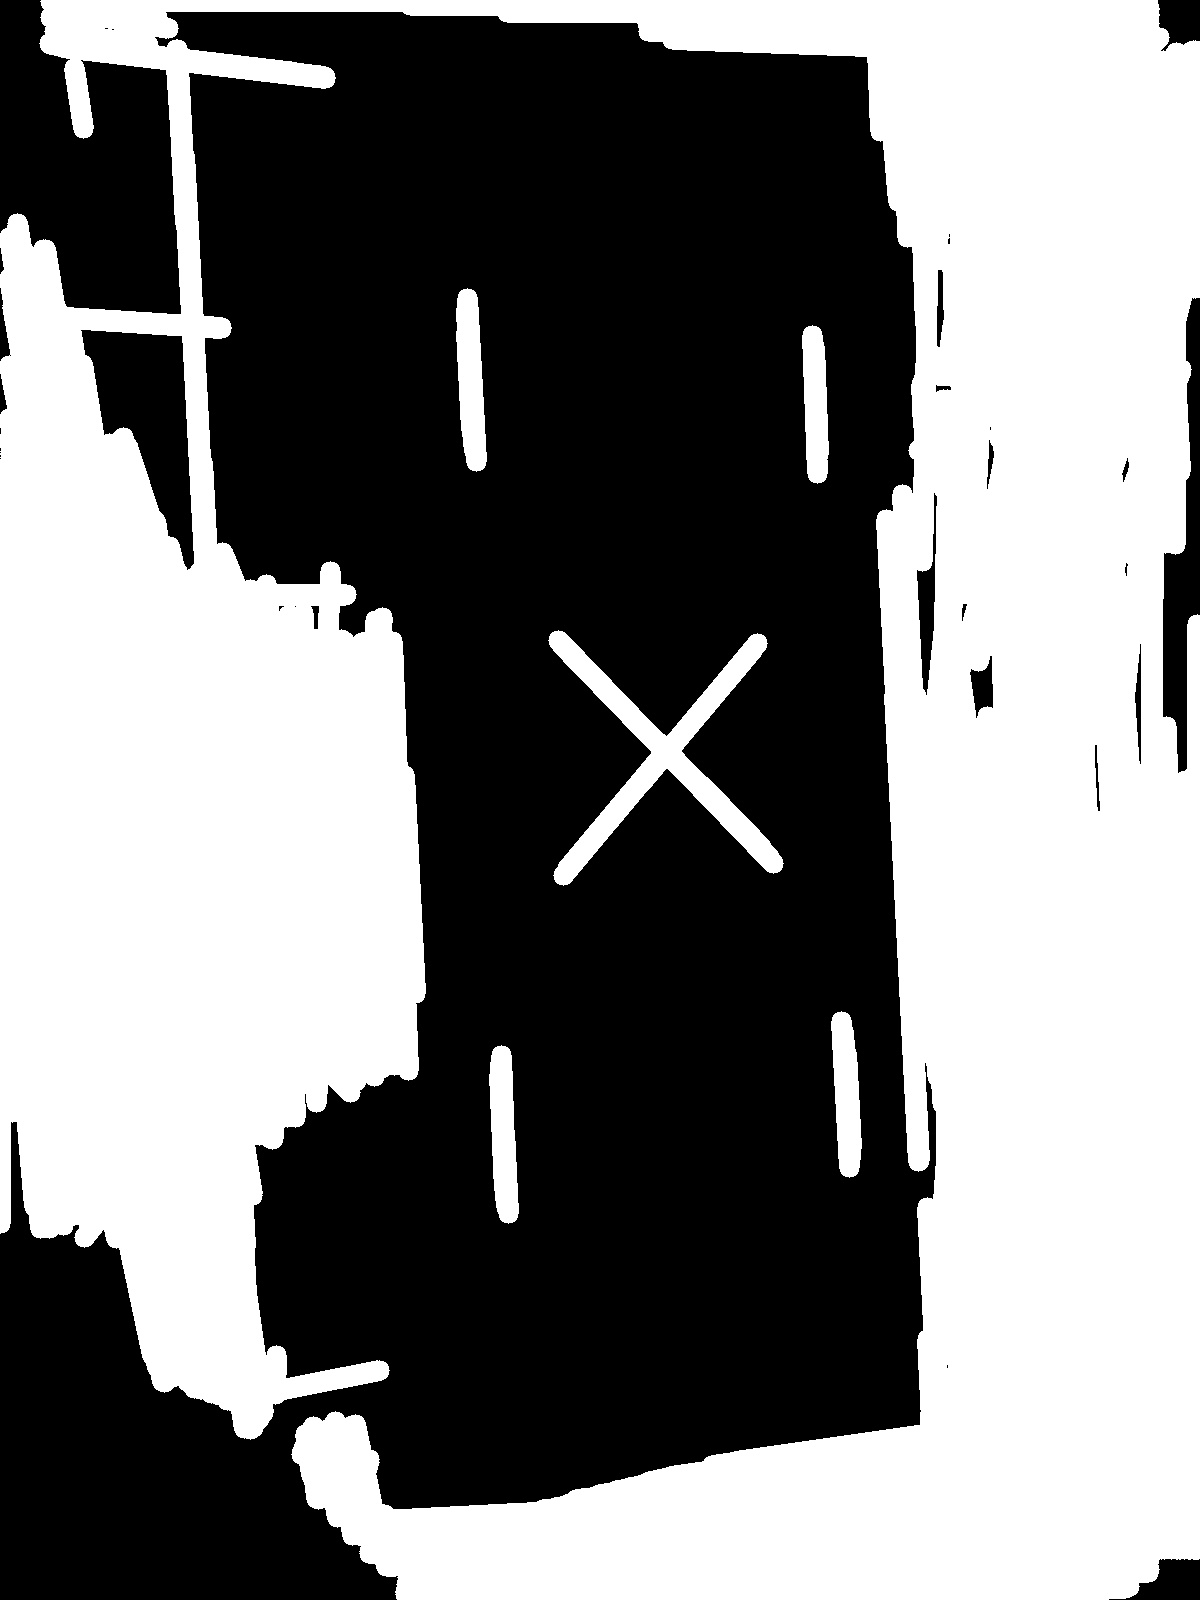
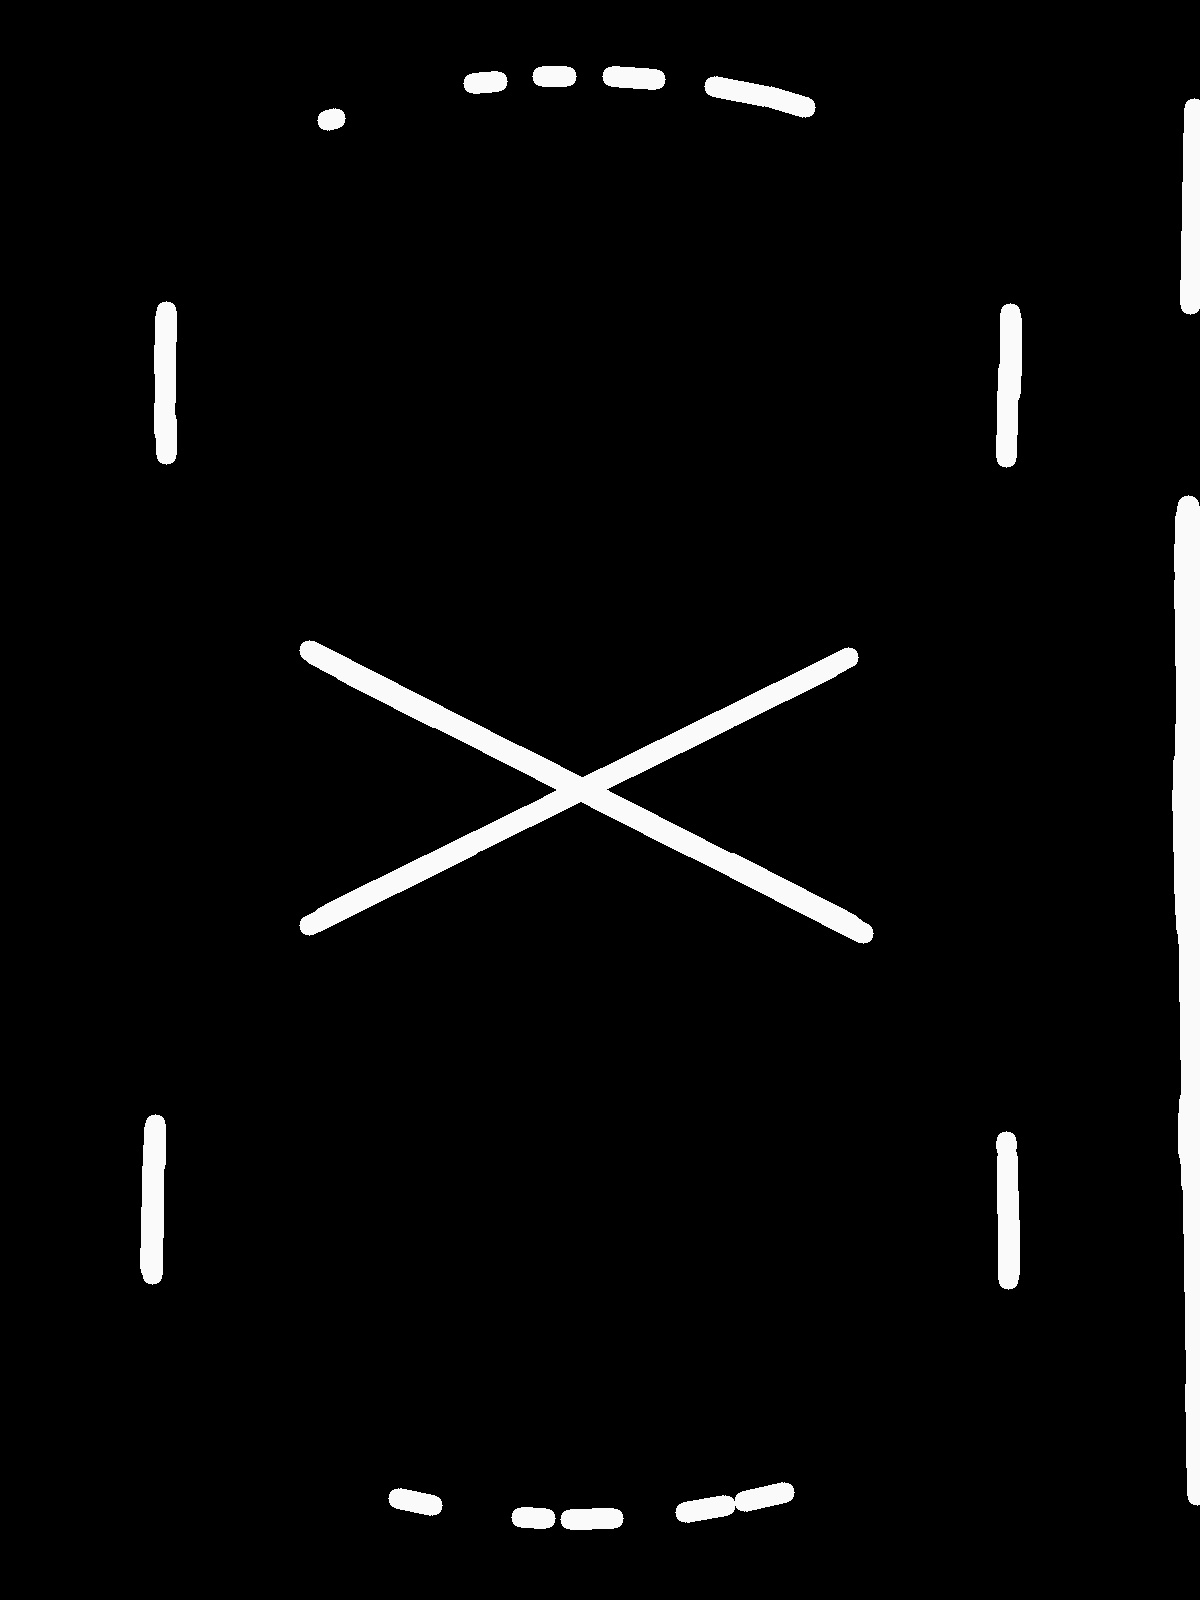
git the paper of the car from prespective of the track

diff --git a/Image Processing/ImageProcessingC++/ScanCar.cpp b/Image Processing/ImageProcessingC++/ScanCar.cpp
@@ -4,7 +4,7 @@
 #include <set>
 
 //Basma :Not sure of Data Type of front_color- back_color check
-bool find_car(int& x_center, int& y_center, int& x_f, int& y_f, int& x_b, int& y_b, Mat image, Scalar front_color, Scalar back_color) {
+bool find_car(int& x_center, int& y_center, int& x_f, int& y_f, int& x_b, int& y_b, Mat& image, Mat& transofmation_matrix, Scalar front_color, Scalar back_color) {
 	/**
 	* This function is used to find car in the picture
 	*
@@ -30,12 +30,19 @@ bool find_car(int& x_center, int& y_center, int& x_f, int& y_f, int& x_b, int& y
 
 	//Temp Till Tomorrow
 	//image = image_input;
-
+	Mat warped_image;
+	int imgWidth = image.cols;
+	int imgHeight = image.rows;
+	warpPerspective(image, warped_image, transofmation_matrix, Size(imgWidth, imgHeight));
+	imshow("warped_car_image", warped_image);
+	//waitKey(0);
 
 	//Convert BGR to RGB
 	Mat image_rgb;
-	cvtColor(image, image_rgb, COLOR_BGR2RGB);
-
+	cvtColor(warped_image, image_rgb, COLOR_BGR2RGB);
+	imshow("warped_car_image_rgb", image_rgb);
+	imwrite("car.jpeg", image_rgb);
+	//waitKey(0);
 	//Detect front of the car
 	//image isn't modified here 😊
 	bool found;
@@ -62,7 +69,7 @@ bool find_car(int& x_center, int& y_center, int& x_f, int& y_f, int& x_b, int& y
 	return true;
 }
 
-void car_on_line(bool& on_line, int& line_index, double x_car_front, double  y_car_front, double  x_car_back, double y_car_back, Mat lines_matrix, int threshold) {
+void car_on_line(bool& on_line, int& line_index, double x_car_front, double  y_car_front, double  x_car_back, double y_car_back, Mat& lines_matrix, int threshold) {
 	/**
 	* This function detrmines whether car is on a straight line or not
 	*
@@ -73,23 +80,47 @@ void car_on_line(bool& on_line, int& line_index, double x_car_front, double  y_c
 	* @lines_matrix : Binary Matrix with 1's = lines
 	* @threshold : min sum to consider Car on line[With the uncommented part to make Region for the Car]
 	*/
-	set<int>s;
-	map<int, int>m, m2;
-	/*for (int i = 0; i < lines_matrix.rows; i++) {
-		for (int j = 0; j < lines_matrix.cols; j++) {
-			s.insert((int)lines_matrix.at<char>(i, j));
-			m2[(int)lines_matrix.at<char>(i, j)]++;
-		}
-	}*/
-	//for (auto m : s)cout << m << " ";
-
 	int size_i = lines_matrix.rows;
 	int size_j = lines_matrix.cols;
 	int x_car = (x_car_front + x_car_back) / 2;
 	int y_car = (y_car_front + y_car_back) / 2;
-	int windo_size = calculateDistance(x_car_front , y_car_front , x_car_back, y_car_back)*1.5;
+	int windo_size = calculateDistance(x_car_front, y_car_front, x_car_back, y_car_back) * 2;
 	int count = 0;
 	on_line = false;
+
+	/*cv::line(lines_matrix, Point(x_car, y_car), Point(0, 0), Scalar(255, 255, 255), 10);
+	imshow("lines_matrix", lines_matrix);
+	waitKey(0);*/
+
+	set<int>s;
+	map<int, int>m, m2;
+	/*for (int i = 0; i < lines_matrix.rows; i++) {
+		for (int j = 0; j < lines_matrix.cols; j++) {
+			s.insert((int)lines_matrix.at<uchar>(i, j));
+			m2[(int)lines_matrix.at<char>(i, j)]++;
+		}
+	}*/
+	//for (int i = y_car-50; i < y_car+50; i++) {
+	//	for (int j = x_car-50; j < x_car+50; j++) {
+	//		s.insert((int)lines_matrix.at<uchar>(i, j));
+	//		m2[(int)lines_matrix.at<uchar>(i, j)]++;
+	//		//cv::line(lines_matrix, Point(i, j), Point(0, 0), Scalar(255, 255, 255), 10);
+	//	}
+	//}
+	/*imshow("lines_matrix", lines_matrix);
+	waitKey(0);*/
+	/*for (int i = x_car - 50; i  < x_car + 50; i++) {
+		for (int j = y_car - 50; j < y_car + 50; j++) {
+			s.insert((int)lines_matrix.at<uchar>(i, j));
+			m2[(int)lines_matrix.at<uchar>(i, j)]++;
+			cv::line(lines_matrix, Point(i, j), Point(0, 0), Scalar(255, 255, 255), 2);
+
+		}
+	}
+	imshow("lines_matrix", lines_matrix);*/
+	//waitKey(0);
+	//for (auto m : s)cout << m << " ";
+	
 	for (int i = y_car - windo_size / 2; i <= y_car + windo_size / 2; i++) {
 		if (i < 0 || i >= size_i)continue;
 		for (int j = x_car - windo_size / 2; j <= x_car + windo_size / 2; j++) {
@@ -98,10 +129,12 @@ void car_on_line(bool& on_line, int& line_index, double x_car_front, double  y_c
 			count += ((int)scaler != 0);
 			//m[scaler]++;
 			on_line=on_line|| ((int)scaler != 0);
+			//cout << scaler << " ";
 		}
+		cout << endl;
 	}
-	/*int maxi = -1, maxi_indx = -1;
-	for (auto x : m) {
+	int maxi = -1, maxi_indx = -1;
+	/*for (auto x : m) {
 		if (x.first && x.second > maxi) {
 			maxi = x.second;
 			maxi_indx = 255 - x.first;
@@ -112,7 +145,7 @@ void car_on_line(bool& on_line, int& line_index, double x_car_front, double  y_c
 	line_index = (on_line) ? maxi_indx : -1;*/
 }
 
-bool increase_decrease_speed(Mat draw,double x_car_front, double  y_car_front, double  x_car_back, double y_car_back, Vec4i line, double dist_threshold) {
+bool increase_decrease_speed(Mat& draw,double x_car_front, double  y_car_front, double  x_car_back, double y_car_back, Vec4i line, double dist_threshold) {
 	/**
 	/**
 	* Control wether Inc or Dec Car Spped Depending on distance form car and end of the St line

diff --git a/Image Processing/ImageProcessingC++/ScanTrack.cpp b/Image Processing/ImageProcessingC++/ScanTrack.cpp
@@ -2,7 +2,7 @@
 # include "ScanTrack.h";
 #include <math.h>
 
-bool scan_track(Mat& image_lines, vector<Vec4i>& start_end_points, Mat track_image) {
+bool scan_track(Mat& image_lines,Mat& transformation_matrix, vector<Vec4i>& start_end_points, Mat& track_image) {
 	/**
 	* Scan Track Without A Car to Detect Straight Lines locations
 
@@ -17,21 +17,21 @@ bool scan_track(Mat& image_lines, vector<Vec4i>& start_end_points, Mat track_ima
 
 	//1.Extract Track Paper From the Image
 	Mat paper_img;
-	bool wrapped = extract_paper(paper_img, track_image, false);
+	bool wrapped = extract_paper(paper_img, transformation_matrix, track_image, false);
 
 	//if (! wrapped) {
 	//	return false;
 	// }
 
 	imshow("Wrapped Paper  scan_track()", paper_img);
-	waitKey(0);
+	//waitKey(0);
 	//Temp Till Tomorrow
-	paper_img = track_image;
+	//paper_img = track_image;
 
 	// 2.Detect Straight Lines in the Track
 	extract_lines(image_lines, start_end_points, paper_img);
 
-	imshow("image_lines scan_track()", image_lines);
+	//imshow("image_lines scan_track()", image_lines);
 
 	return true;
 }
@@ -44,7 +44,7 @@ struct str {
 	}
 } comp;
 
-bool extract_paper(Mat& warped_image, Mat img_bgr, bool draw) {
+bool extract_paper(Mat& warped_image, Mat& transformation_matrix, Mat& img_bgr, bool draw) {
 	/**
 	* extract paper out of the image
 	* @param warped_image bgr warpPerspective OUTPUT image contain paper only
@@ -155,13 +155,13 @@ bool extract_paper(Mat& warped_image, Mat img_bgr, bool draw) {
 	//Prespective
 	vector<Point2f>image_corner{ Point(0,0),Point(imgWidth - 1, 0),Point(0,imgHeight - 1),Point(imgWidth - 1, imgHeight - 1) };
 	Mat M = getPerspectiveTransform(biggest_contour_ordered, image_corner);
-
+	transformation_matrix = M;
 	warpPerspective(img_bgr, warped_image, M, Size(imgWidth, imgHeight));
 
 	return true;
 }
 
-void extract_lines(Mat& image_lines, vector<Vec4i>& start_end_points, Mat image, double rho, double  theta, int threshold, double minLineLength, double  maxLineGap, int thickness) {
+void extract_lines(Mat& image_lines, vector<Vec4i>& start_end_points, Mat& image, double rho, double  theta, int threshold, double minLineLength, double  maxLineGap, int thickness) {
 	//maxLineGap gets its value from the default value in the .h file or from scan track function
 	// donst change it here 
 	//maxLineGap = 10;
@@ -187,7 +187,7 @@ void extract_lines(Mat& image_lines, vector<Vec4i>& start_end_points, Mat image,
 
 	// Thinning Image
 	Mat thinned = thin_image(image_gray);
-	imshow("thinned", thinned);
+	//imshow("thinned", thinned);
 	//waitKey(0);
 
 	// Dilate
@@ -205,7 +205,7 @@ void extract_lines(Mat& image_lines, vector<Vec4i>& start_end_points, Mat image,
 	//	0 <= rho < Rmax
 	vector<Vec4i>lines;
 	//HoughLinesP(edges, lines, rho, theta, 100, minLineLength, maxLineGap);
-	imshow("	Diatled image", edges);
+	//imshow("	Diatled image", edges);
 	//waitKey(0);
 
 	HoughLinesP(edges, lines, 1, theta, threshold, minLineLength, maxLineGap);
@@ -268,7 +268,7 @@ void extract_lines(Mat& image_lines, vector<Vec4i>& start_end_points, Mat image,
 
 		}*/
 		//line(image_lines, Point(x1, y1), Point(x2, y2), Scalar(255-index, 255, 255), thickness);
-		line(image_lines, Point(x1, y1), Point(x2, y2), Scalar(255, 255, 255), thickness);
+		line(image_lines, Point(x1, y1), Point(x2, y2), Scalar(250, 250, 250), thickness);
 		//cout << "1:" << x1 << "," << y1 << "=>" << "2:" << x2 << "," << y2 << endl;
 		//index++;
 	}

diff --git a/Image Processing/ImageProcessingC++/main.cpp b/Image Processing/ImageProcessingC++/main.cpp
@@ -19,9 +19,9 @@ int main(int argc, char** argv)
 	cout << "Size" << typeid(image.size()).name() << endl;
 	
 	//2.Scanning Track Initially
-	Mat image_lines;
+	Mat image_lines,transformation_matrix;
 	vector<Vec4i>start_end_points;
-	bool wrapped = scan_track(image_lines, start_end_points, image);
+	bool wrapped = scan_track(image_lines, transformation_matrix, start_end_points, image);
 
 	if (!wrapped) {
 		cout << "Failed To Scan Track" << endl;
@@ -29,14 +29,13 @@ int main(int argc, char** argv)
 	}
 	imshow("lines", image_lines);
 	imwrite("./1.jpeg",image_lines);
-	waitKey(0);
+	//waitKey(0);
 
 	/************************************************************************************************/
 	//step(2) find car on track
 	//1.read an car on track image
 	std::string path2 = "./assets/TestCases/TestCase2/car.jpeg";
 	Mat car_image = imread(path2, 1); //reading from a path
-
 	//cout << "size" << typeid(image.size()).name() << endl;
 	//imshow("original car main.cpp", image);
 
@@ -45,7 +44,7 @@ int main(int argc, char** argv)
 	Scalar front_color(255,0, 0);//red
 	Scalar back_color(0, 255, 0);//green
 	
-	car_found=find_car(x_center, y_center, x_f, y_f, x_b, y_b, car_image,front_color,back_color);
+	car_found=find_car(x_center, y_center, x_f, y_f, x_b, y_b, car_image, transformation_matrix,front_color,back_color);
 
 	if (!car_found) {
 		cout << "failed to find car 😟" << endl;
@@ -55,8 +54,8 @@ int main(int argc, char** argv)
 	//Debug
 	Mat draw_temp2 = image_lines.clone();
 	cv::line(draw_temp2, Point(x_center, y_center), Point(0, 0), Scalar(255, 255, 255), 2);
-	imshow("Center vs lines", image_lines);
-	waitKey(0);
+	imshow("Center vs lines", draw_temp2);
+	//waitKey(0);
 
 
 	///************************************************************************************************/

diff --git a/Image Processing/ImageProcessingC++/ScanCar.h b/Image Processing/ImageProcessingC++/ScanCar.h
@@ -8,7 +8,7 @@
 using namespace cv;
 using namespace std;
 
-bool find_car(int& x_center, int& y_center, int& x_f, int& y_f, int& x_b, int& y_b, Mat image, Scalar front_color, Scalar back_color);
-void car_on_line(bool& on_line, int& line_index, double x_car_front, double  y_car_front, double  x_car_back, double y_car_back, Mat lines_matrix, int threshold=100);
-bool increase_decrease_speed(Mat draw,double x_car_front, double  y_car_front, double  x_car_back, double y_car_back, Vec4i line, double dist_threshold);
+bool find_car(int& x_center, int& y_center, int& x_f, int& y_f, int& x_b, int& y_b, Mat& image,Mat& transofmation_matrix, Scalar front_color, Scalar back_color);
+void car_on_line(bool& on_line, int& line_index, double x_car_front, double  y_car_front, double  x_car_back, double y_car_back, Mat& lines_matrix, int threshold=100);
+bool increase_decrease_speed(Mat& draw,double x_car_front, double  y_car_front, double  x_car_back, double y_car_back, Vec4i line, double dist_threshold);
 #endif

diff --git a/Image Processing/ImageProcessingC++/ScanTrack.h b/Image Processing/ImageProcessingC++/ScanTrack.h
@@ -8,8 +8,8 @@
 using namespace cv;
 using namespace std;
 
-bool scan_track(Mat& image_lines, vector<Vec4i>& start_end_points, Mat track_image);
-bool extract_paper(Mat& warped_image, Mat img_bgr, bool draw = false);
-void extract_lines(Mat& image_lines, vector<Vec4i>& start_end_points,Mat image, double rho = 1, double  theta = 1 * CV_PI / 180, int threshold = 100, double minLineLength = 100, double  maxLineGap = 50, int thickness = 20);
+bool scan_track(Mat& image_lines,Mat& transformation_matrix, vector<Vec4i>& start_end_points, Mat& track_image);
+bool extract_paper(Mat& warped_image, Mat& transformation_matrix, Mat& img_bgr, bool draw = false);
+void extract_lines(Mat& image_lines, vector<Vec4i>& start_end_points,Mat& image, double rho = 1, double  theta = 1 * CV_PI / 180, int threshold = 100, double minLineLength = 100, double  maxLineGap = 50, int thickness = 20);
 #endif
 
